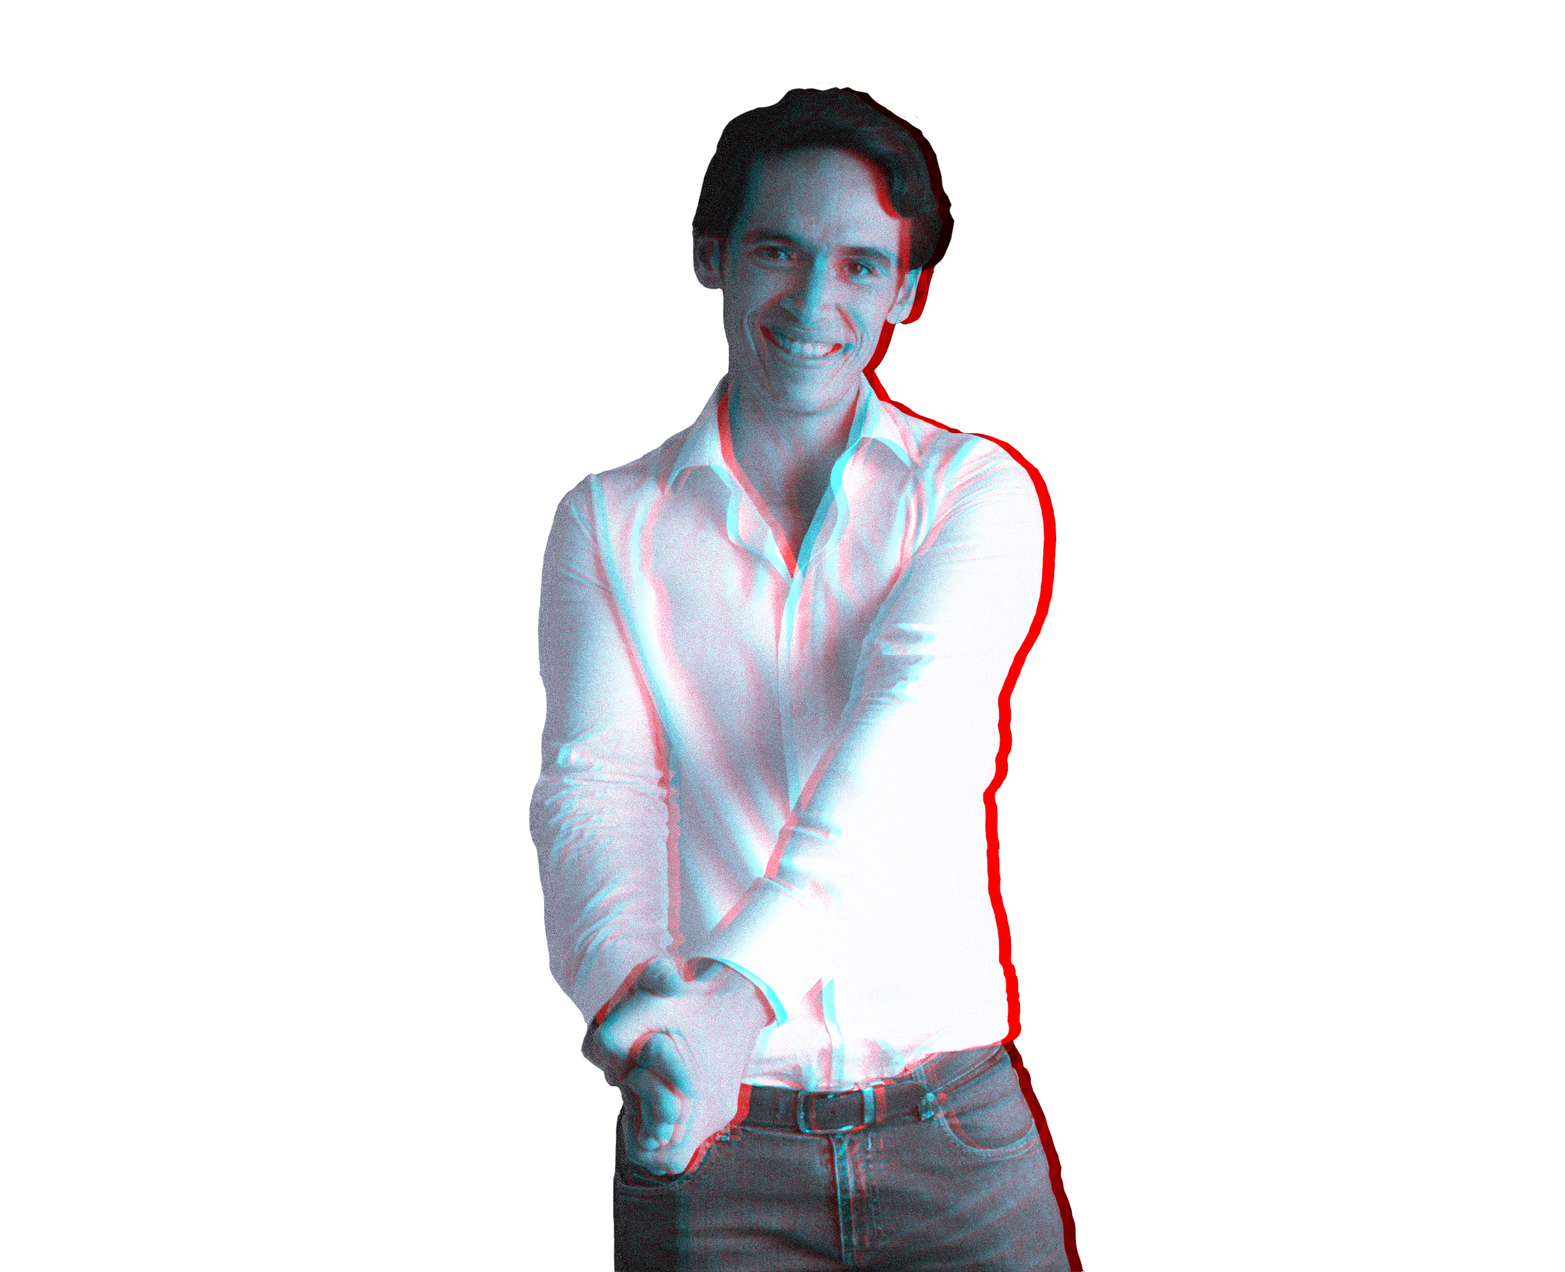
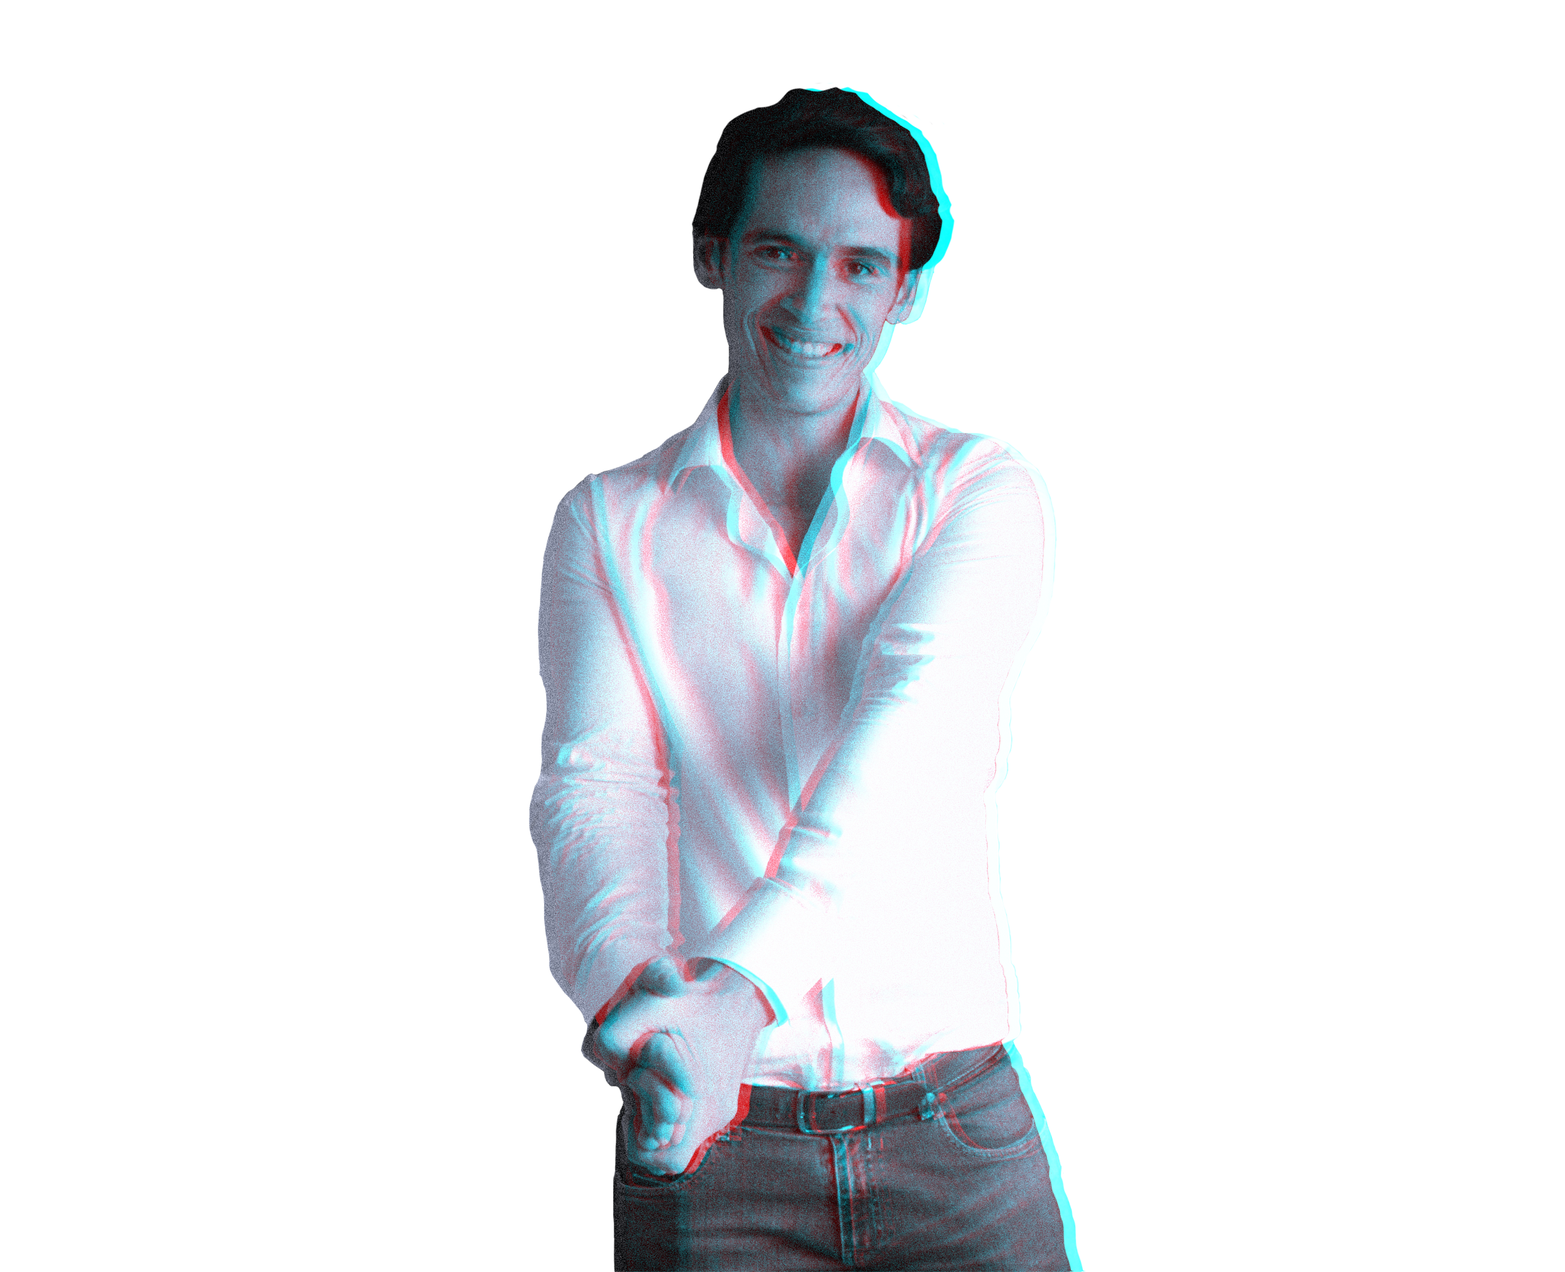
Cambios finales v2

diff --git a/javascripts/custom/main.js b/javascripts/custom/main.js
@@ -177,6 +177,7 @@
         $(".team-carousel").owlCarousel({
             loop: false,
             rewind: true,
+            
             margin: 0,
             dots: true,
             nav: false,
@@ -520,147 +521,175 @@
         });
 
         var memoDiv = new Array();
-        var itemDiv;
+        var idDiv = new Array();
+        var itemDiv = "";
+        var isDrag = false;
 
         if($(window).width() >600){
 
             $(".team-carousel-item").dblclick(function(evt) {
+                isDrag = false;
                 var imgClass = evt.currentTarget.classList[1];
                 itemDiv = evt.currentTarget;
                 var viewActive = $(".owl-item.active" || ".owl-item.cloned.active");                                    
                 switch (imgClass) {
                     case 'team-01-carousel-item-01':
+                        idDiv.push(evt.currentTarget.id);
+                        memoDiv.push("team-carousel-item team-01-carousel-item-01 text-center img-bg");
                         $(evt.currentTarget).removeClass();
-                        $(evt.currentTarget).addClass('team-carousel-item team-01-carousel-item-01-hover text-center img-bg-hover'); 
+                        $(evt.currentTarget).addClass('team-carousel-item team-01-carousel-item-01-hover text-center img-bg-hover disable-owl-swipe'); 
                         var divA = "<h1>Sindy Tec</h1><h4>CEO Y DIRECTOR CREATIVO</h4><h3>'Al compromiso no le <br>importa como te sientas, <br>¡ve y hazlo!'<br><div><a href='https://www.instagram.com/sindy_teher/?hl=es-la' target='_blank'><i class='fab fa-instagram'></i></a><a href='https://www.facebook.com/Sindy-Teher-293837087909110/' target='_blank'><i style='font-size: 2.4rem;' class='fab fa-facebook-f'></i></a></div></h3>";
                         var divB = "<h5>Me defino sin filtros, proactiva y terca. Agradecida totalmente de la vida, la oveja creativa de la familia y divertida.</h5>";           
                         hoverIn(viewActive, memoDiv, divA, divB);
                     break;
 
                     case 'team-01-carousel-item-02':
+                        idDiv.push(evt.currentTarget.id);
+                        memoDiv.push("team-carousel-item team-01-carousel-item-02 text-center img-bg");
                         $(evt.currentTarget).removeClass();
-                        $(evt.currentTarget).addClass('team-carousel-item team-01-carousel-item-02-hover text-center img-bg-hover'); 
+                        $(evt.currentTarget).addClass('team-carousel-item team-01-carousel-item-02-hover text-center img-bg-hover disable-owl-swipe'); 
                         var divA = '<h1>Alejandro Valera</h1><h4>SOCIO EJECUTIVO</h4><h3>"Encuentra una manera de resolverlo, osea ¡SOLUCIÓNALO!"<br><div><a href="https://www.instagram.com/alejandrovalera__/?hl=es-la" target="_blank"><i class="fab fa-instagram"></i></a><a href="https://www.facebook.com/Alejandro-Valera-2237305619837723/" target="_blank"><i style="font-size: 2.4rem;" class="fab fa-facebook-f"></i></a></div></h3>';
                         var divB = '<h5>Soy una persona auténtica, que te dice la verdad, me encanta el trato con la gente e ir por retos nuevos para cumplir con mi mision</h5>';
                         hoverIn(viewActive, memoDiv, divA, divB);
                         break;
                     case 'team-01-carousel-item-03':
+                        idDiv.push(evt.currentTarget.id);
+                        memoDiv.push("team-carousel-item team-01-carousel-item-03 text-center img-bg");
                         $(evt.currentTarget).removeClass();
-                        $(evt.currentTarget).addClass('team-carousel-item team-01-carousel-item-03-hover text-center img-bg-hover'); 
+                        $(evt.currentTarget).addClass('team-carousel-item team-01-carousel-item-03-hover text-center img-bg-hover disable-owl-swipe'); 
                         var divA = '<h1>Alex Zapata</h1><h4>JEFE DE PRODUCCION</h4><h3>"No estoy loco soy mentalmente divertido"<br><div><a href="https://www.instagram.com/aljozaso/?hl=es-la" target="_blank"><i class="fab fa-instagram"></i></a><a href="https://www.facebook.com/aljozaso" target="_blank"><i style="font-size: 2.4rem;" class="fab fa-facebook-f"></i></a></div></h3>';
                         var divB = '<h5>Soy un hombre divertido, creativo, amiguero, empático, soñador. La vida me ha dado la fortuna rodearme de gente que me ama. Amante de los deportes y el cine.</h5>';
                         hoverIn(viewActive, memoDiv, divA, divB);
                     break;
                     case 'team-01-carousel-item-04':
+                        idDiv.push(evt.currentTarget.id);
+                        memoDiv.push("team-carousel-item team-01-carousel-item-04 text-center img-bg");
                         $(evt.currentTarget).removeClass();
-                        $(evt.currentTarget).addClass('team-carousel-item team-01-carousel-item-04-hover text-center img-bg-hover'); 
+                        $(evt.currentTarget).addClass('team-carousel-item team-01-carousel-item-04-hover text-center img-bg-hover disable-owl-swipe'); 
                         $(evt.currentTarget).css("background-size","contain !important");
                         var divA = '<h1>Armando Carvajal & Victor Perera</h1><h4>DESARROLLO WEB</h4><h3>"Siempre innovando y hacia adelante"<br><div><a href="https://www.instagram.com/armando.carvajal.142/?hl=es-la" target="_blank"><i class="fab fa-instagram"></i></a><a href="https://www.facebook.com/armando.carvajal.142" target="_blank"><i style="font-size: 2.4rem;" class="fab fa-facebook-f"></i></a></div></h3>';
                         var divB = '<h5>Una pareja profesional y única con extensos conocimientos de programación, gestión de proyectos de software y diseño web. Amantes de la tecnología y de los retos</h5><h3><br><div><a href="https://www.instagram.com/vic_rpr/" target="_blank"><i class="fab fa-instagram"></i></a><a href="https://www.facebook.com/victor.raul2" target="_blank"><i style="font-size: 2.4rem;" class="fab fa-facebook-f"></i></a></div></h3>';
                         hoverIn(viewActive, memoDiv, divA, divB);
                     break;
                     case 'team-01-carousel-item-05':
+                        idDiv.push(evt.currentTarget.id);
+                        memoDiv.push("team-carousel-item team-01-carousel-item-05 text-center img-bg");
                         $(evt.currentTarget).removeClass();
-                        $(evt.currentTarget).addClass('team-carousel-item team-01-carousel-item-05-hover text-center img-bg-hover'); 
+                        $(evt.currentTarget).addClass('team-carousel-item team-01-carousel-item-05-hover text-center img-bg-hover disable-owl-swipe'); 
                         var divA = '<h1>Mariel Alvizo</h1><h4>DISEÑADORA</h4><h3>"Diseñando la vida es más sabrosa"<br><div><a href="https://www.instagram.com/marie_alvizo/" target="_blank"><i class="fab fa-instagram"></i></a><a href="https://www.facebook.com/mariel.alvizoperera" target="_blank"><i style="font-size: 2.4rem;" class="fab fa-facebook-f"></i></a></div></h3>';
                         var divB = '<h5>Desde pequeña prefería que me compraran plumones, colores o tijeras en vez de una muñeca. Cuando algo se rompe en mi casa siempre intento repararlo.Soy amante de los animales, tengo tres gatos, tre perros y un pececito llamado Sushi</h5>';
                         hoverIn(viewActive, memoDiv, divA, divB);
                     break;
                     case 'team-01-carousel-item-06':
-                    $(evt.currentTarget).removeClass();
-                        $(evt.currentTarget).addClass('team-carousel-item team-01-carousel-item-06-hover text-center img-bg-hover'); 
+                        idDiv.push(evt.currentTarget.id);
+                        memoDiv.push("team-carousel-item team-01-carousel-item-06 text-center img-bg");
+                        $(evt.currentTarget).removeClass();
+                        $(evt.currentTarget).addClass('team-carousel-item team-01-carousel-item-06-hover text-center img-bg-hover disable-owl-swipe'); 
                         $(evt.currentTarget).css("background-size","contain !important");
                         var divA = '<h1>Naomy King</h1><h4>COMMUNITY MANAGER</h4><h3>"Si amas lo que haces, ni los lunes te quitarán tu sonrisa"<br><div><a href="https://www.instagram.com/naomyking/" target="_blank"><i class="fab fa-instagram"></i></a><a href="https://www.facebook.com/naomy.king" target="_blank"><i style="font-size: 2.4rem;" class="fab fa-facebook-f"></i></a></div></h3>';
                         var divB = '<h5>Soy una mujer alegre y divertida que le gusta estar rodeada de buenos amigos y familia. Me gustaría tener mis propios negocios y ser una empresaria exitosa a nivel internacional</h5>';
                         hoverIn(viewActive, memoDiv, divA, divB);
                     break;
-            }
+                }            
 
-            }, null);
+            }, null);      
 
-            
-            
-            $(".team-carousel").mouseleave(function(evt) {
-                var imgClass = itemDiv.classList[1];
-                var viewActive = $(".owl-item.active" || ".owl-item.cloned.active");
-                switch (imgClass) {
-                case 'team-01-carousel-item-01-hover':
-                    $(itemDiv).removeClass();
-                    $(itemDiv).addClass('team-carousel-item team-01-carousel-item-01 text-center img-bg');
+            $(".team-carousel").mousedown(function() {
+                isDrag = false
+            })
+            $(".team-carousel").mousemove(function() {
+                isDrag = true;
+            })
+
+            $(".team-carousel").mouseup(function() {
+                var wasDragging = isDrag;
+                isDrag = false;
+                if (wasDragging && memoDiv.length >0) {
+                    // var imgClass = itemDiv.classList[1];
+                    var viewActive = $(".owl-item.active" || ".owl-item.cloned.active");
                     hoverOut(viewActive, memoDiv);
-                    break;
+                    memoDiv = new Array();  
+                    idDiv = new Array();
+                    itemDiv = "";
+                }
+            })
 
-                    case 'team-01-carousel-item-02-hover':
-                        $(itemDiv).removeClass();
-                        $(itemDiv).addClass('team-carousel-item team-01-carousel-item-02 text-center img-bg');
+                $(".team-carousel").mouseleave(function(evt) {
+                    if (memoDiv.length >0) {
+                    var imgClass = itemDiv.classList[1];
+                    
+                    var viewActive = $(".owl-item.active" || ".owl-item.cloned.active");
+                    switch (imgClass) {
+                    case 'team-01-carousel-item-01-hover':
                         hoverOut(viewActive, memoDiv);
                         break;
-                    case 'team-01-carousel-item-03-hover':
-                        $(itemDiv).removeClass();
-                        $(itemDiv).addClass('team-carousel-item team-01-carousel-item-03 text-center img-bg');
-                        hoverOut(viewActive, memoDiv);
-                        break;
-                    case 'team-01-carousel-item-04-hover':
-                        $(itemDiv).removeClass();
-                        $(itemDiv).addClass('team-carousel-item team-01-carousel-item-04 text-center img-bg');
-                        hoverOut(viewActive, memoDiv);
-                        break;
-                    case 'team-01-carousel-item-05-hover':
-                        $(itemDiv).removeClass();
-                        $(itemDiv).addClass('team-carousel-item team-01-carousel-item-05 text-center img-bg');
-                        hoverOut(viewActive, memoDiv);
-                        break;
-                    case 'team-01-carousel-item-06-hover':
-                        $(itemDiv).removeClass();
-                        $(itemDiv).addClass('team-carousel-item team-01-carousel-item-06 text-center img-bg');
-                        hoverOut(viewActive, memoDiv);
-                        break;
+
+                        case 'team-01-carousel-item-02-hover':
+                            // $(itemDiv).removeClass();
+                            // $(itemDiv).addClass('team-carousel-item team-01-carousel-item-02 text-center img-bg');
+                            hoverOut(viewActive, memoDiv);
+                            break;
+                        case 'team-01-carousel-item-03-hover':
+                            // $(itemDiv).removeClass();
+                            // $(itemDiv).addClass('team-carousel-item team-01-carousel-item-03 text-center img-bg');
+                            hoverOut(viewActive, memoDiv);
+                            break;
+                        case 'team-01-carousel-item-04-hover':
+                            // $(itemDiv).removeClass();
+                            // $(itemDiv).addClass('team-carousel-item team-01-carousel-item-04 text-center img-bg');
+                            hoverOut(viewActive, memoDiv);
+                            break;
+                        case 'team-01-carousel-item-05-hover':
+                            // $(itemDiv).removeClass();
+                            // $(itemDiv).addClass('team-carousel-item team-01-carousel-item-05 text-center img-bg');
+                            hoverOut(viewActive, memoDiv);
+                            break;
+                        case 'team-01-carousel-item-06-hover':
+                            // $(itemDiv).removeClass();
+                            // $(itemDiv).addClass('team-carousel-item team-01-carousel-item-06 text-center img-bg');
+                            hoverOut(viewActive, memoDiv);
+                            break;
+                }
+                
+                memoDiv = new Array();  
+                idDiv = new Array();
+                itemDiv = "";
             }
-            memoDiv = new Array();  
-            itemDiv = "";
-            });
-
+                });
+            
             function hoverIn($dato, $lista, $divA, $divB) {            
                 for (let i = 0; i < $dato.length; i++) {
                     const classText = $dato[i].firstChild.className;
                     
                     if (!(classText.indexOf("img-bg-hover") > -1)) {                                     
                         var divNone =$dato[i];
-                        $lista.push(divNone.firstChild.className);             
+                        $lista.push(divNone.firstChild.className); 
+                        idDiv.push(divNone.firstChild.id);                     
                         $(divNone.firstChild).removeClass();
-                        $(divNone.firstChild).addClass("team-carousel-item white-bg text-center img-bg");
-                        if ($lista.length == 1) {
+                        $(divNone.firstChild).addClass("team-carousel-item white-bg text-center img-bg disable-owl-swipe");
+                        if ($lista.length == 2) {
                             divNone.firstChild.firstElementChild.innerHTML = $divA;
                         }
-                        if($lista.length == 2){
+                        if($lista.length == 3){
                             divNone.firstChild.firstElementChild.innerHTML = $divB;
                         }
                         $(".team-caps").show(1000);
-                        $(".team-carousel").owlCarousel({
-                            mouseDrag: false,
-                            touchDrag: false,
-                        })
                         
                     } 
                 }            
             }
 
             function hoverOut($dato, $lista) {
-                for (let i = 0; i < $dato.length; i++) {
-                    const classText = $dato[i].firstChild.className;
-                    if (classText.indexOf("white-bg") > -1) {
-                        var divNone = $dato[i];
-                        $(divNone.firstChild).removeClass();
-                        $(divNone.firstChild).addClass($lista.shift());      
-                        divNone.firstChild.firstElementChild.innerHTML = "";                            
-                        console.log(divNone.firstChild.firstElementChild);
-                        $(".team-caps").hide();
-                        $(".team-carousel").owlCarousel({
-                            mouseDrag: true,
-                            touchDrag: true,
-                        })
-                    } 
+                
+                for (let i = 0; i < idDiv.length; i++) {
+                    var divNone = $dato[i];                                
+                    divNone.firstChild.firstElementChild.innerHTML = "";        
+                    $(`#${idDiv[i]}`).removeClass();
+                    $(`#${idDiv[i]}`).addClass($lista[i]);       
+                    $(".team-caps").html("");
                 }
+                $(".team-caps").html("");
+                $(".team-caps").hide();
             }
         }
         else{

diff --git a/index.html b/index.html
@@ -277,7 +277,7 @@
                                 data-mask_in="x:0px;y:0px;" data-mask_out="x:inherit;y:inherit;" data-start="3570"
                                 data-splitin="none" data-splitout="none" data-responsive_offset="off" data-responsive="on"
                                 data-end="5720" style="z-index: 6; min-width: 500px; min-height: auto; white-space: nowrap; max-width: 500px; max-height: 58px;font-family: 'RNS-Sanz-Bold'; font-size: 55px; line-height: 90px; font-weight: 900; color: #000; background-color: #fff;padding:0 0 0 0;">
-                                CIÓN</div>
+                                SIÓN</div>
                         </li>
 
                         <!-- SLIDE-4  -->
@@ -507,7 +507,7 @@
                 <!-- Carousel -->
                 <div class="team-carousel basic-hans owl-carousel owl-nav-sticky-wide">
 
-                    <div class="team-carousel-item team-01-carousel-item-01 text-center img-bg">
+                    <div class="team-carousel-item team-01-carousel-item-01 text-center img-bg" id="team1">
                             <!-- <div id="team-info"><h1>Sindy Tec</h1>
                                 <h4>CEO Y DIRECTOR CREATIVO</h4>
                                 <h3>"Al compromiso no le <br>importa como te sientas, <br>¡ve y hazlo!"
@@ -527,7 +527,7 @@
                         
                     </div>
                     
-                    <div class="team-carousel-item team-01-carousel-item-02 text-center img-bg">
+                    <div class="team-carousel-item team-01-carousel-item-02 text-center img-bg" id="team2">
                         <div class="team-caps text-center">
                             <!-- <h3 class="white font3xblack">Alejandro Valera</h3>
                             <p class="color font3">designer</p>
@@ -539,7 +539,7 @@
                         </div>
                     </div>
                     
-                    <div class="team-carousel-item team-01-carousel-item-03 text-center img-bg">
+                    <div class="team-carousel-item team-01-carousel-item-03 text-center img-bg" id="team3">
                         <div class="team-caps text-center">
                             <!-- <h3 class="white font3xblack">Alex Zapata</h3>
                             <p class="color font3">developer</p>
@@ -551,7 +551,7 @@
                         </div>
                     </div>
 
-                    <div class="team-carousel-item team-01-carousel-item-04 text-center img-bg">
+                    <div class="team-carousel-item team-01-carousel-item-04 text-center img-bg" id="team4">
                         <div class="team-caps text-center">
                             <!-- <h3 class="white font3xblack">Armando Carvajal & Victor Perera</h3>
                             <p class="color font3">founder / ceo</p>
@@ -563,7 +563,7 @@
                         </div>
                     </div>
                     
-                    <div class="team-carousel-item team-01-carousel-item-05 text-center img-bg">
+                    <div class="team-carousel-item team-01-carousel-item-05 text-center img-bg" id="team5">
                         <div class="team-caps text-center">
                             <!-- <h3 class="white font3xblack">Persona A</h3>
                             <p class="color font3">designer</p>
@@ -575,7 +575,7 @@
                         </div>
                     </div>
                     
-                    <div class="team-carousel-item team-01-carousel-item-06  text-center img-bg">
+                    <div class="team-carousel-item team-01-carousel-item-06  text-center img-bg" id="team6">
                         <div class="team-caps text-center">
                             <!-- <h3 class="white font3xblack">Persona B</h3>
                             <p class="color font3">developer</p>

diff --git a/stylesheets/main-bg.css b/stylesheets/main-bg.css
@@ -37,17 +37,17 @@
     background-image: url('../images/Equipo/Equipo-Final/Nao.png');
 }
 .team-01-carousel-item-01-hover {
-    background-image: url('../images/Equipo/Equipo/Sin_fondo/Sindy2.png');
+    background-image: url('../images/Equipo/Equipo/Fondo/Sindy2.png');
 }
 
 .team-01-carousel-item-02-hover {
-    background-image: url('../images/Equipo/Equipo/Sin_fondo/Alex1.png');
+    background-image: url('../images/Equipo/Equipo/Fondo/Alex1.png');
 }
 .team-01-carousel-item-03-hover {
     background-image: url('../images/Equipo/Equipo/Sin_fondo/Zapata2.1.png');
 }
 .team-01-carousel-item-04-hover {
-    background-image: url('../images/Equipo/Equipo/Sin_fondo/A_V2.png');
+    background-image: url('../images/Equipo/Equipo/Fondo/A_V2.png');
     background-size: contain !important;
 }
 

diff --git a/stylesheets/main.css b/stylesheets/main.css
@@ -733,7 +733,7 @@ nav.mastnav ul li {
 
 /*JOURNAL*/
 
-.journal {}
+
 
 .journal h4 {
     font-size: 20px;
